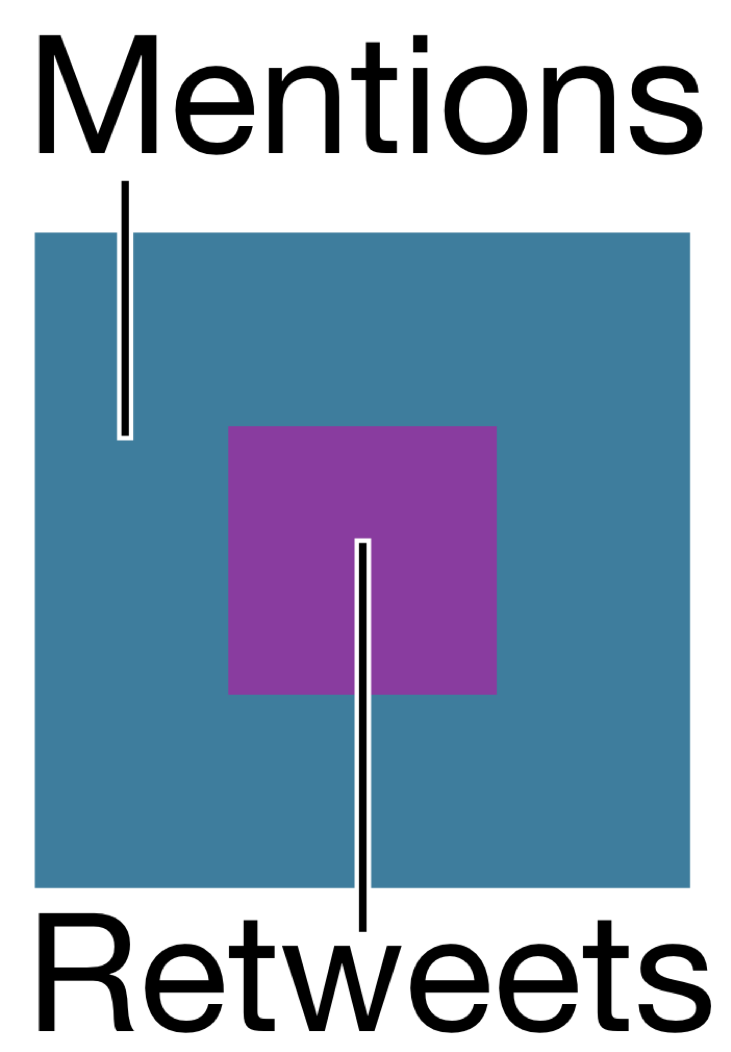
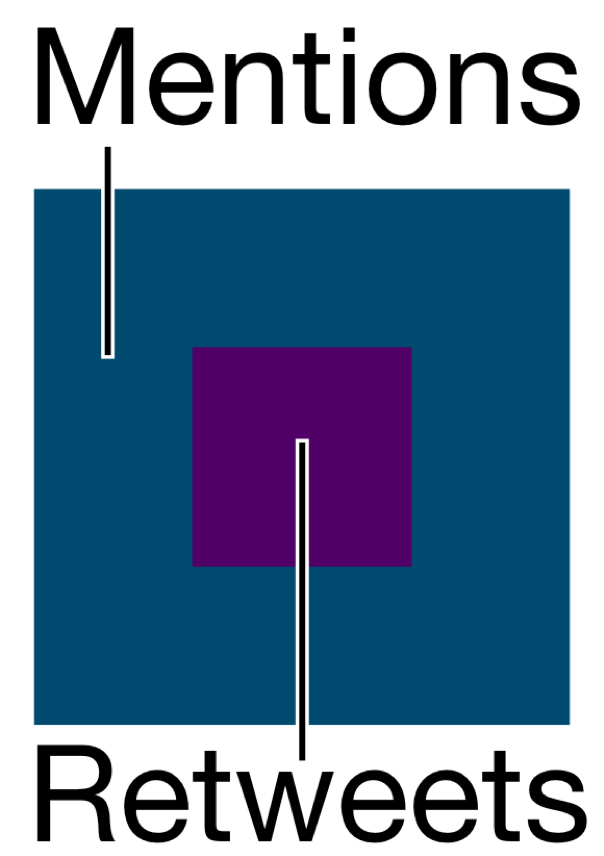
fixed colors in baseconfig and in adj-matrix legend. Fixes #22.

diff --git a/experiments/deploy/js/adjMatrix/cleaned_model.js b/experiments/deploy/js/adjMatrix/cleaned_model.js
@@ -628,7 +628,9 @@ var View = /** @class */ (function () {
             //model.maxTracker[type]]
             // set up scale
             var typeIndex = _this.controller.configuration.attributeScales.edge.type.domain.indexOf(type);
-            var scale = d3.scaleLinear().domain(extent).range(["white", _this.controller.configuration.attributeScales.edge.type.range[typeIndex]]);
+            //let scale = d3.scaleLinear().domain(extent).range(["white", this.controller.configuration.attributeScales.edge.type.range[typeIndex]]);
+            var otherColors = ['#064B6E', '#4F0664', '#000000'];
+            var scale = d3.scaleSqrt().domain(extent).range(["white", otherColors[typeIndex]]);
             scale.clamp(true);
             // store scales
             _this.edgeScales[type] = scale;

diff --git a/experiments/deploy/js/adjMatrix/cleaned_model.ts b/experiments/deploy/js/adjMatrix/cleaned_model.ts
@@ -731,7 +731,11 @@ class View {
       //model.maxTracker[type]]
       // set up scale
       let typeIndex = this.controller.configuration.attributeScales.edge.type.domain.indexOf(type);
-      let scale = d3.scaleLinear().domain(extent).range(["white", this.controller.configuration.attributeScales.edge.type.range[typeIndex]]);
+      //let scale = d3.scaleLinear().domain(extent).range(["white", this.controller.configuration.attributeScales.edge.type.range[typeIndex]]);
+      let otherColors = ['#064B6E','#4F0664','#000000']
+      let scale = d3.scaleSqrt().domain(extent).range(["white", otherColors[typeIndex]);
+
+
       scale.clamp(true);
       // store scales
       this.edgeScales[type] = scale;
